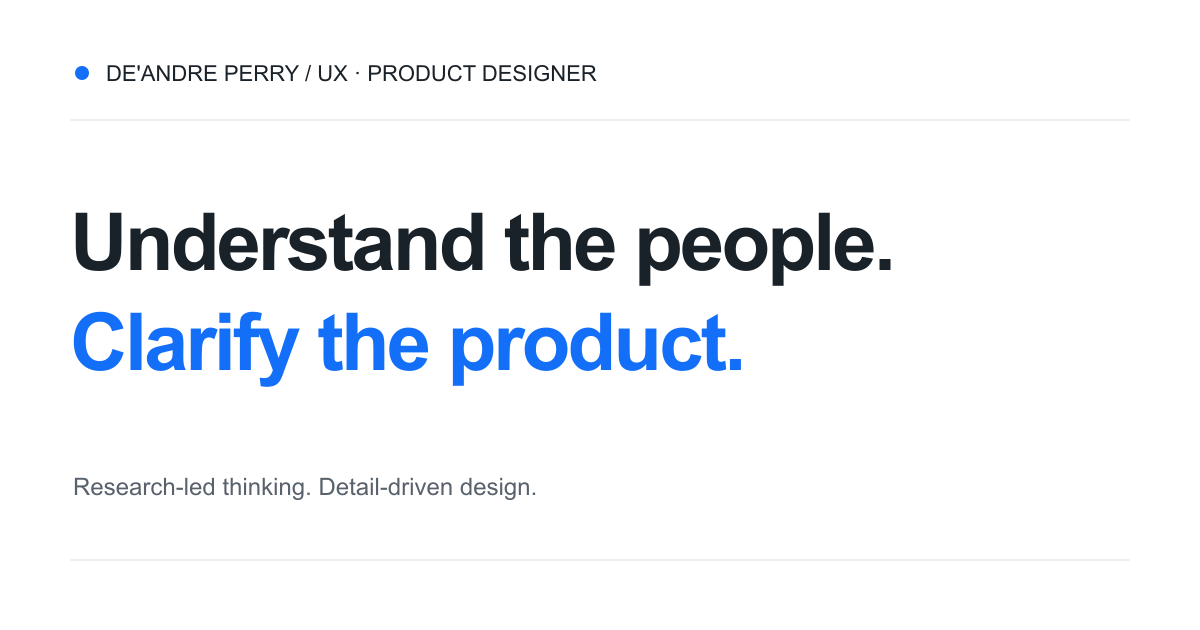
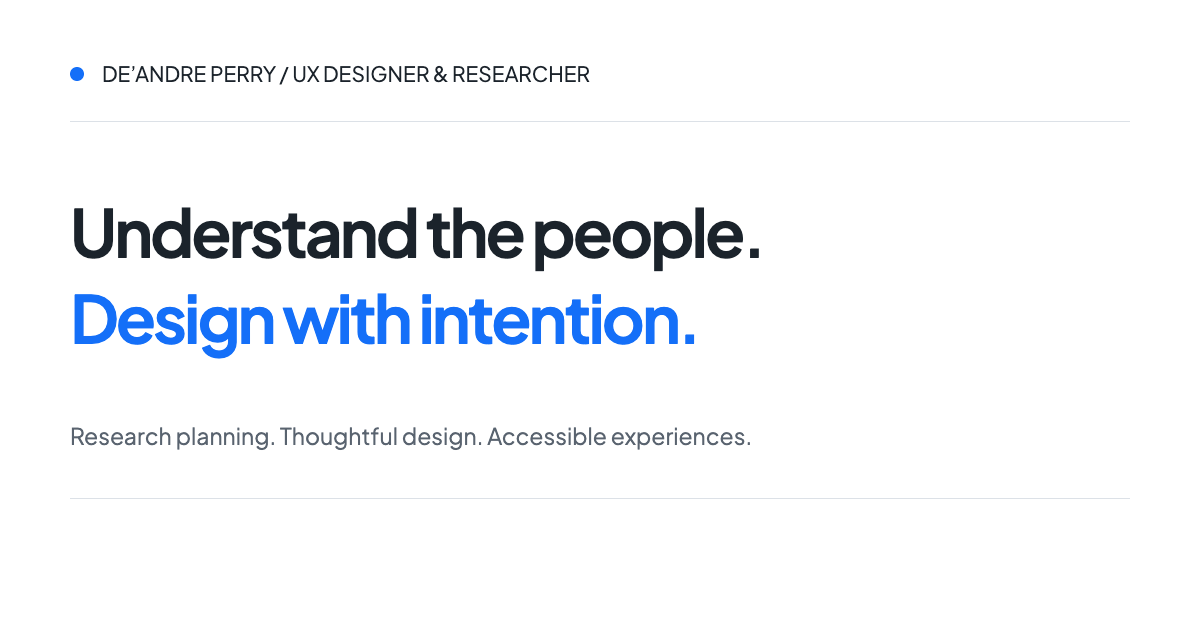
Update portfolio positioning to UX Designer and Researcher

diff --git a/data/projects.ts b/data/projects.ts
@@ -200,7 +200,7 @@ export const projects: CaseStudy[] = [
     description:
       'A design-system learning workspace. Principles, tokens, and component comparisons help designers understand how interface choices fit together.',
     category: 'Visual Design / Design Systems',
-    role: 'UX Designer',
+    role: 'UX Designer & Researcher',
     timeline: 'Dates to confirm',
     team: 'Designers, developers, and design-system reviewers',
     platform: 'Web',
@@ -326,7 +326,7 @@ export const projects: CaseStudy[] = [
     description:
       'A research practice workspace for hardware and software experiences. The design connects study planning, human factors, and evidence synthesis through examples such as a headset and its companion app.',
     category: 'User Research / Hardware & Software',
-    role: 'UX Designer',
+    role: 'UX Designer & Researcher',
     timeline: 'Dates to confirm',
     team: 'Authorship scope to confirm',
     platform: 'Web',
@@ -419,7 +419,7 @@ export const projects: CaseStudy[] = [
     description:
       'An image-to-color workflow that makes extracted palettes editable, reusable, and easier to evaluate.',
     category: 'Visual Design / Color Interaction',
-    role: 'UX Designer',
+    role: 'UX Designer & Researcher',
     timeline: 'Dates to confirm',
     team: 'Authorship scope to confirm',
     platform: 'Web',
@@ -512,7 +512,7 @@ export const projects: CaseStudy[] = [
     description:
       'An interactive accessibility learning environment that makes the consequences of interface decisions tangible.',
     category: 'Accessibility / Inclusive Interaction',
-    role: 'UX Designer',
+    role: 'UX Designer & Researcher',
     timeline: 'Dates to confirm',
     team: 'Authorship scope to confirm',
     platform: 'Web',

diff --git a/app/layout.tsx b/app/layout.tsx
@@ -15,16 +15,16 @@ import './sbf.css';
 export const metadata: Metadata = {
   metadataBase: new URL(siteConfig.url),
   title: {
-    default: 'De’Andre Perry — UX Designer',
-    template: '%s — De’Andre Perry',
+    default: 'De’Andre Perry — UX Designer & Researcher',
+    template: '%s — De’Andre Perry, UX Designer & Researcher',
   },
   description:
-    'Research-led thinking. Detail-driven design. De’Andre Perry connects user needs, complex workflows, and thoughtful interfaces.',
+    'De’Andre Perry is a UX Designer & Researcher working across research planning, interaction design, accessibility, and visual systems.',
   alternates: { canonical: '/' },
   icons: { icon: '/favicon.png', apple: '/brandmark.png' },
   robots: { index: true, follow: true },
   openGraph: {
-    title: 'De’Andre Perry — UX Designer',
+    title: 'De’Andre Perry — UX Designer & Researcher',
     description: 'Understand the people. Design with intention.',
     type: 'website',
     url: '/',
@@ -33,14 +33,15 @@ export const metadata: Metadata = {
         url: '/social-preview.png',
         width: 1200,
         height: 630,
-        alt: 'De’Andre Perry — UX Designer',
+        alt: 'De’Andre Perry — UX Designer & Researcher',
       },
     ],
   },
   twitter: {
     card: 'summary_large_image',
-    title: 'De’Andre Perry — UX Designer',
-    description: 'Research-led thinking. Detail-driven design.',
+    title: 'De’Andre Perry — UX Designer & Researcher',
+    description:
+      'Research planning, thoughtful design, and accessible experiences.',
     images: ['/social-preview.png'],
   },
 };

diff --git a/app/page.tsx b/app/page.tsx
@@ -10,15 +10,15 @@ export default function Home() {
         <div className="hero-copy">
           <p className="eyebrow">
             <span className="blue-dot" />
-            DE’ANDRE PERRY · UX DESIGNER
+            DE’ANDRE PERRY · UX DESIGNER & RESEARCHER
           </p>
           <h1>
             Understand the people.
             <span>Design with intention.</span>
           </h1>
           <p className="hero-deck">
-            I create accessible digital experiences grounded in research,
-            purposeful visual systems, and high-fidelity prototyping.
+            I connect research questions and evidence with accessible
+            interfaces, purposeful visual systems, and high-fidelity prototypes.
           </p>
           <div className="hero-actions">
             <a href="#selected-work" className="button button-primary">
@@ -115,8 +115,8 @@ export default function Home() {
             Careful with the how.
           </h2>
           <p>
-            I’m De’Andre, a UX Designer with an interest in the space between
-            understanding a problem and making something useful.
+            I’m De’Andre, a UX Designer & Researcher with an interest in the
+            space between understanding a problem and making something useful.
           </p>
           <a href="/about" className="text-link">
             My approach & background{' '}

diff --git a/app/about/page.tsx b/app/about/page.tsx
@@ -22,12 +22,13 @@ export default function AboutPage() {
             Craft brings it into focus.
           </h1>
           <p>
-            I’m De’Andre Perry, a UX Designer working across visual design, user
-            research, accessibility, and design systems. Front-end prototyping
-            helps me explore behavior beyond static screens and communicate
-            design decisions with engineering. My project work has included
-            contributions from other designers and developers, alongside my own
-            work on product direction, interaction design, and accessibility.
+            I’m De’Andre Perry, a UX Designer & Researcher working across visual
+            design, user research, accessibility, and design systems. Front-end
+            prototyping helps me explore behavior beyond static screens and
+            communicate design decisions with engineering. My project work has
+            included contributions from other designers and developers,
+            alongside my own work on product direction, interaction design, and
+            accessibility.
           </p>
         </div>
         <Image

diff --git a/app/resume/page.tsx b/app/resume/page.tsx
@@ -5,7 +5,7 @@ import { siteConfig } from '@/data/site';
 export const metadata: Metadata = {
   title: 'Resume',
   description:
-    'Resume and professional background for De’Andre Perry, UX Designer.',
+    'Resume and professional background for De’Andre Perry, UX Designer & Researcher.',
   alternates: { canonical: '/resume' },
 };
 export default function ResumePage() {
@@ -51,7 +51,10 @@ export default function ResumePage() {
         </section>
       )}
       <a href="/about" className="text-link">
-        Explore my approach <span aria-hidden="true"><ArrowIcon /></span>
+        Explore my approach{' '}
+        <span aria-hidden="true">
+          <ArrowIcon />
+        </span>
       </a>
     </main>
   );

diff --git a/components/project-narrative.tsx b/components/project-narrative.tsx
@@ -123,7 +123,7 @@ export function ProjectNarrative({
         <dl className="case-metadata">
           <div>
             <dt>Role</dt>
-            <dd>UX Designer</dd>
+            <dd>UX Designer & Researcher</dd>
           </div>
           <div>
             <dt>Focus</dt>

diff --git a/data/site.ts b/data/site.ts
@@ -1,6 +1,6 @@
 export const siteConfig = {
   name: 'De’Andre Perry',
-  role: 'UX Designer',
+  role: 'UX Designer & Researcher',
   email: 'design@deandreperry.com',
   github: 'https://github.com/deandreperry',
   linkedin: 'https://www.linkedin.com/in/iamdeandreperry',
